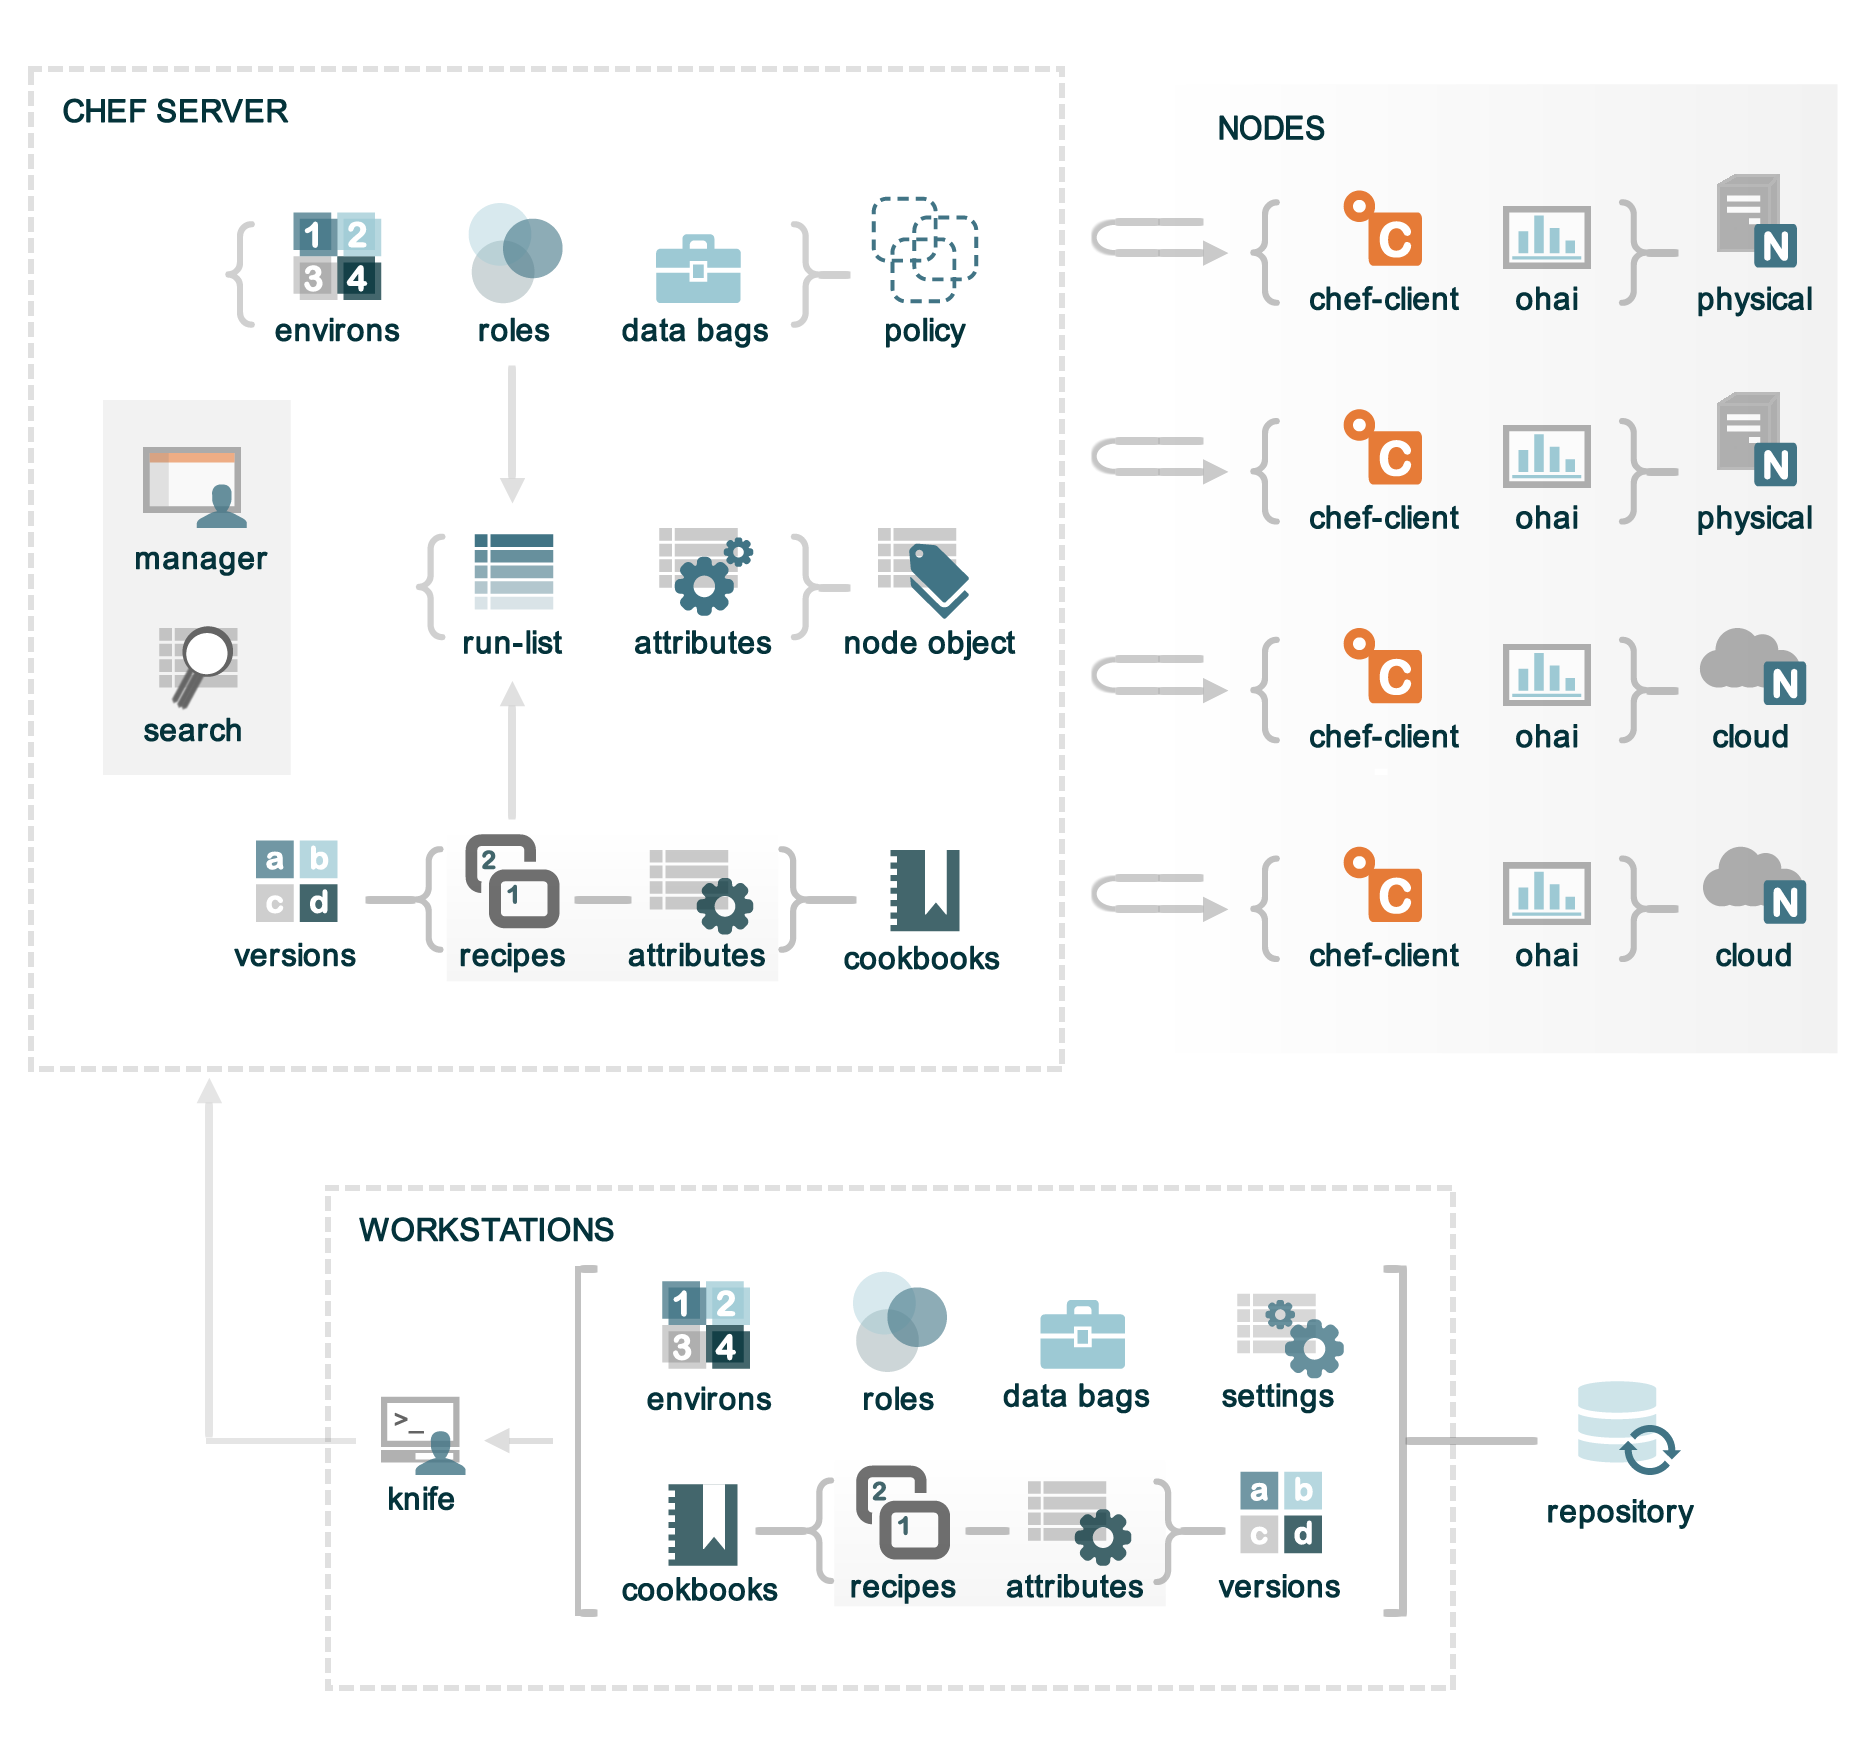
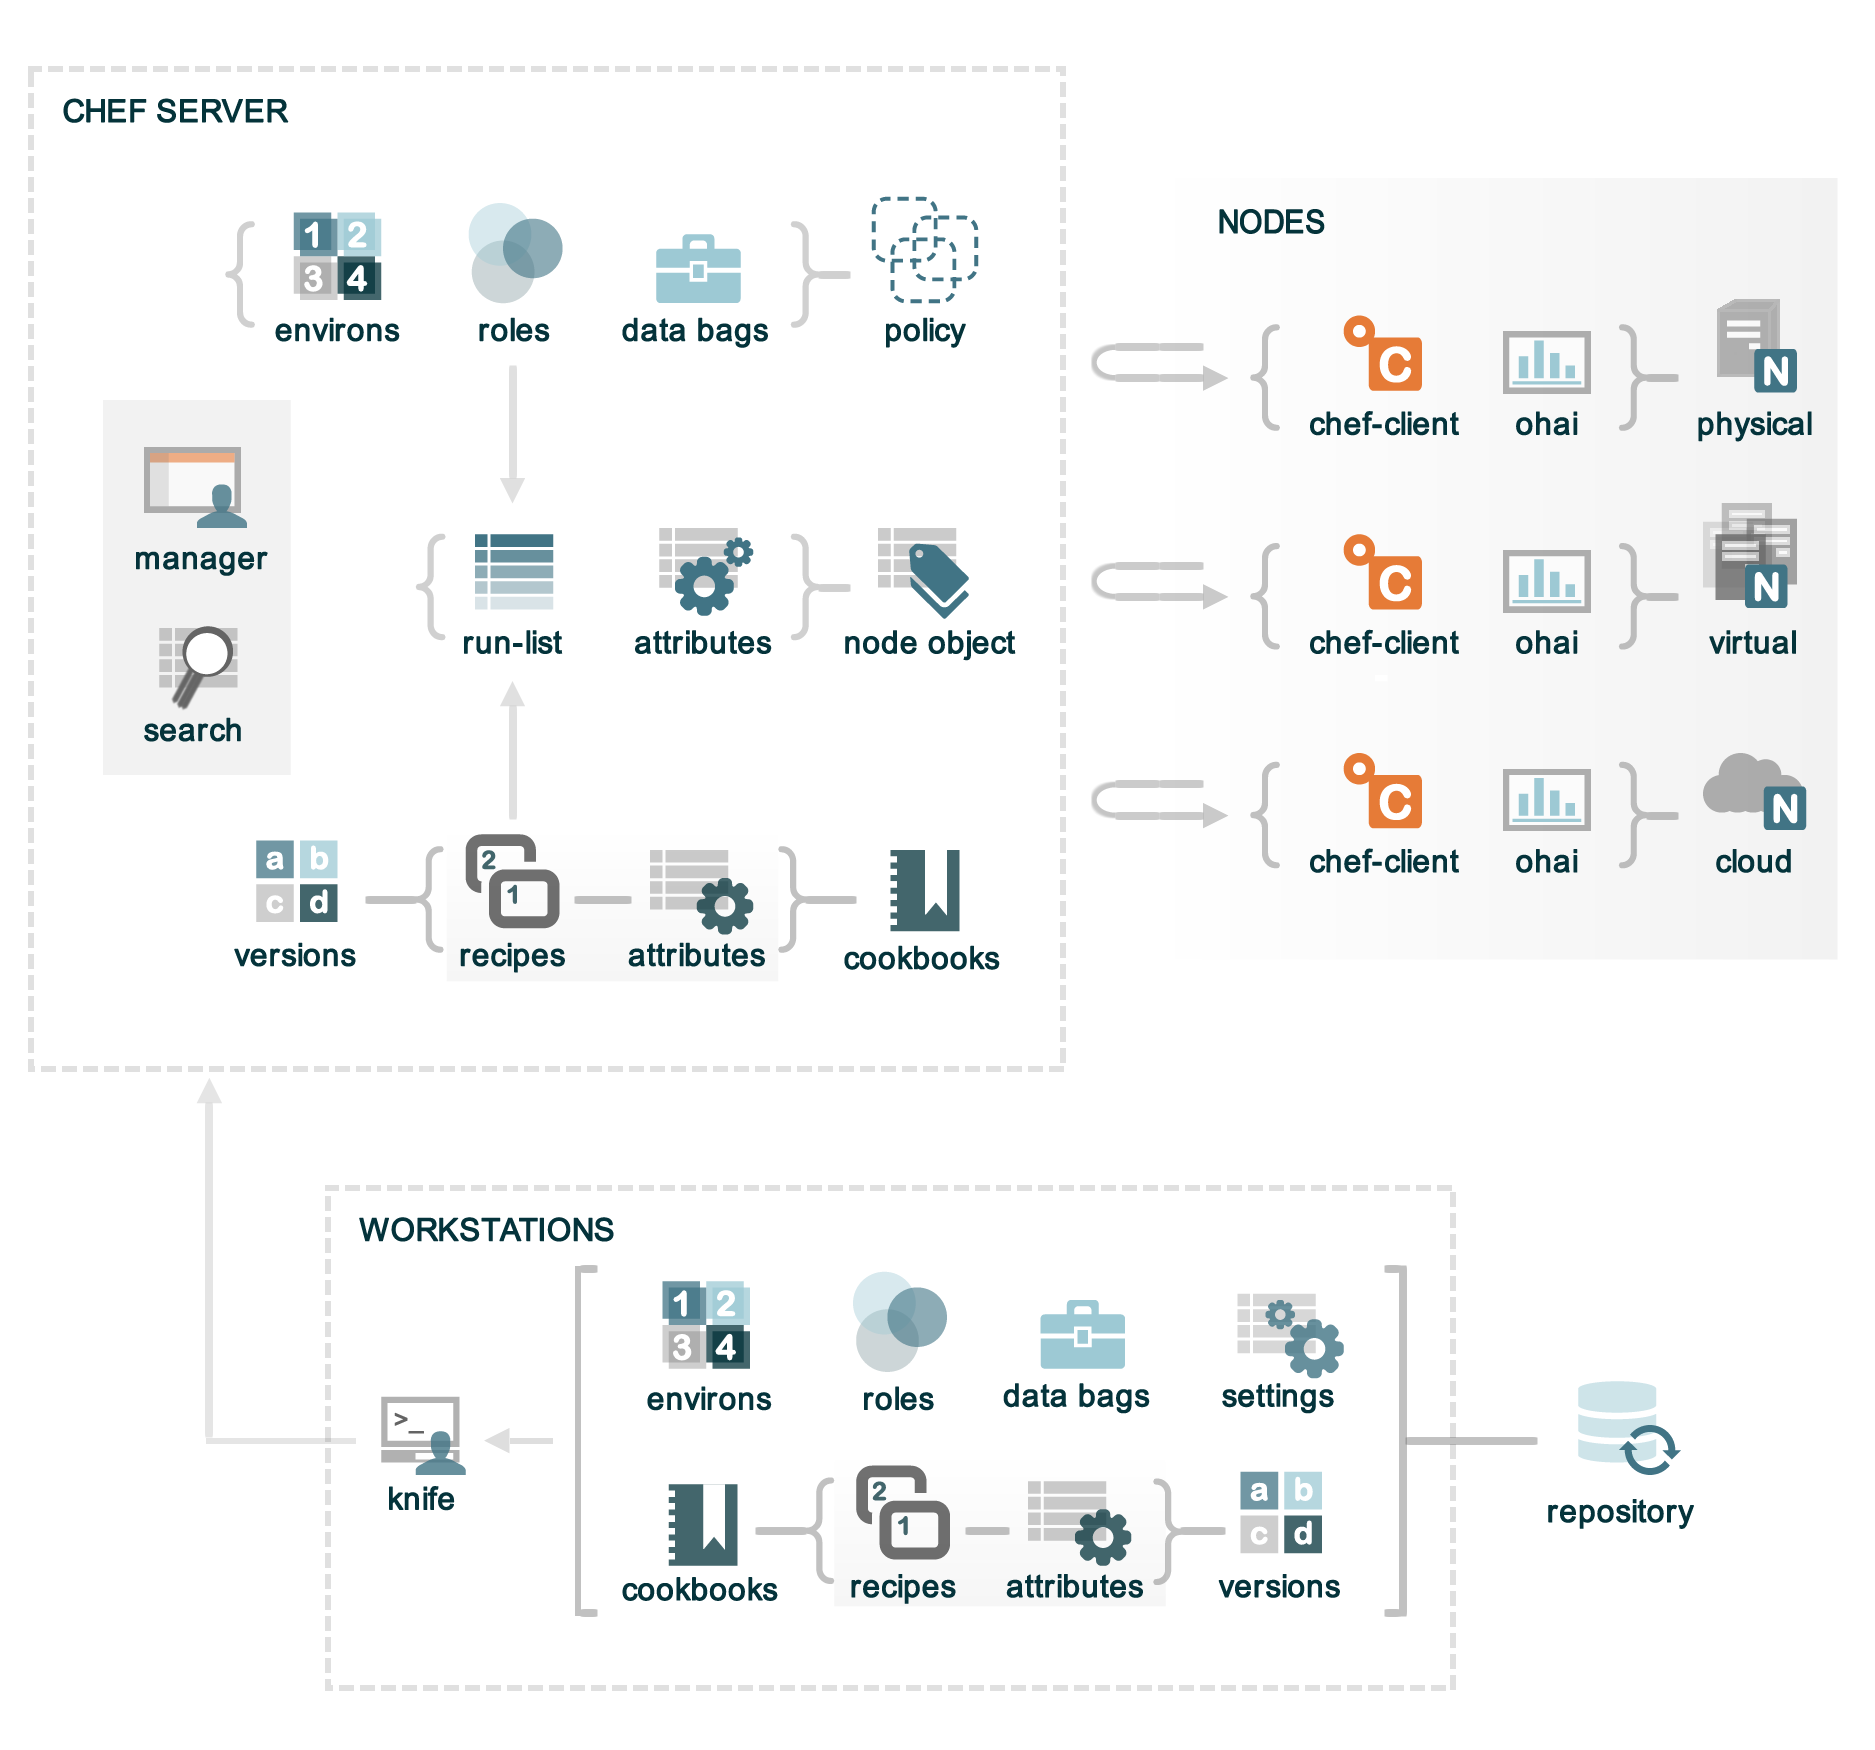
add virtual machines to overview topic(s)

diff --git a/docs_oec/source/oec_overview.rst b/docs_oec/source/oec_overview.rst
@@ -6,7 +6,7 @@ An Overview of Enterprise Chef
 
 The following diagram shows the relationships between the various elements of |chef oec|, including the nodes, the server, and the workstations. These elements work together to provide the |chef client| the information and instruction that it needs so that it can do its job. As you are reviewing the rest of this doc, use the icons in the tables to refer back to this image.
 
-.. image:: ../../images/overview_chef_draft.png
+.. image:: ../../images/overview_chef_oec.png
 
 .. include:: ../../includes_chef/includes_chef_key_elements.rst
 
@@ -28,6 +28,8 @@ The following types of nodes can be managed:
      - .. include:: ../../includes_node/includes_node_cloud.rst
    * - .. image:: ../../images/icon_node_physical.png
      - .. include:: ../../includes_node/includes_node_physical.rst
+   * - .. image:: ../../images/icon_node_virtual.png
+     - .. include:: ../../includes_node/includes_node_virtual.rst
 
 Some important components on nodes include:
 

diff --git a/chef_master/source/chef_overview.rst b/chef_master/source/chef_overview.rst
@@ -28,6 +28,8 @@ The following types of nodes can be managed:
      - .. include:: ../../includes_node/includes_node_cloud.rst
    * - .. image:: ../../images/icon_node_physical.png
      - .. include:: ../../includes_node/includes_node_physical.rst
+   * - .. image:: ../../images/icon_node_virtual.png
+     - .. include:: ../../includes_node/includes_node_virtual.rst
 
 Some important components on nodes include:
 

diff --git a/includes_node/includes_node_virtual.rst b/includes_node/includes_node_virtual.rst
@@ -1,0 +1,4 @@
+.. The contents of this file are included in multiple topics.
+.. This file should not be changed in a way that hinders its ability to appear in multiple documentation sets.
+
+A virtual node is a machine that runs only as a software implementation, but otherwise behaves much like a physical machine.
